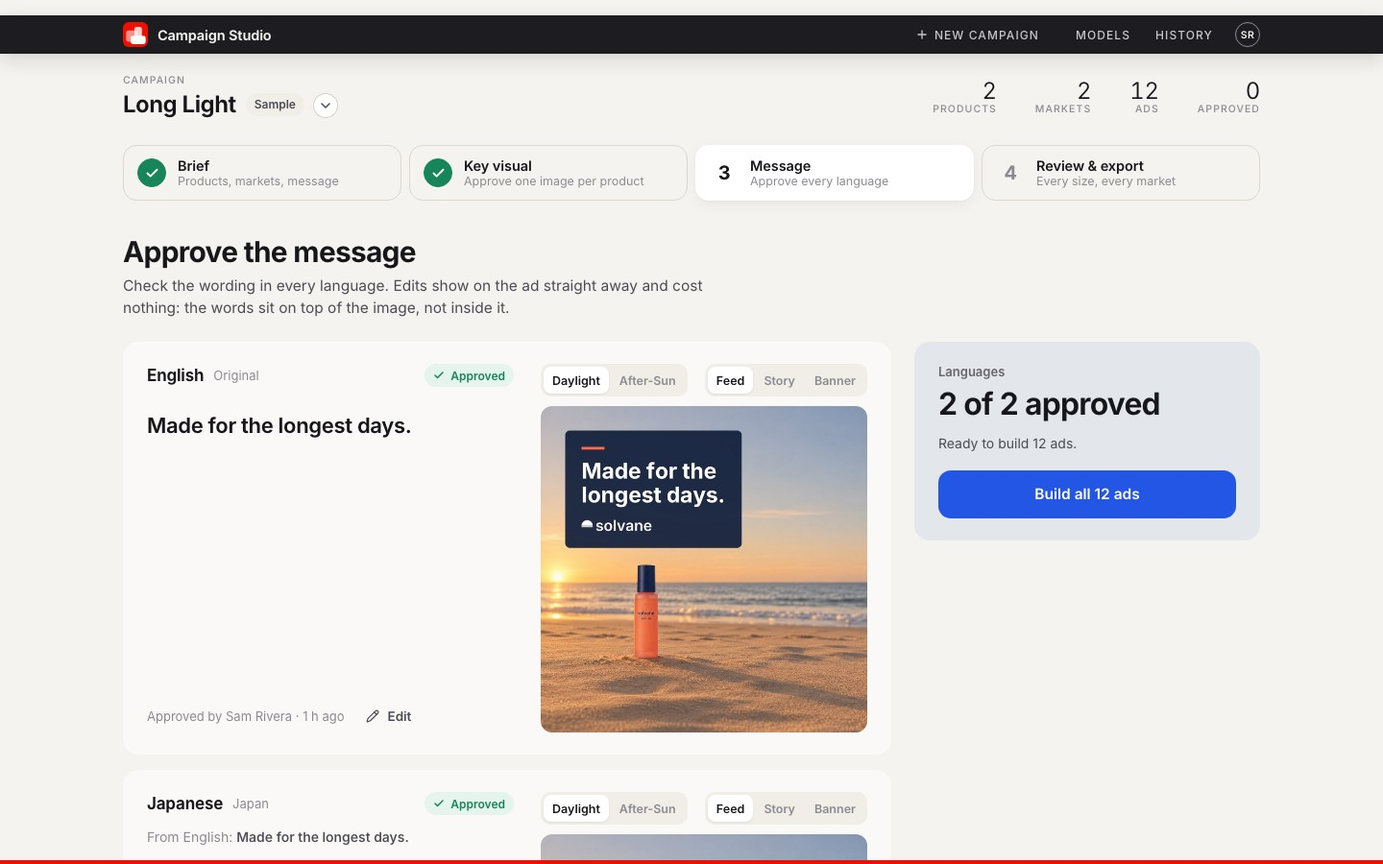
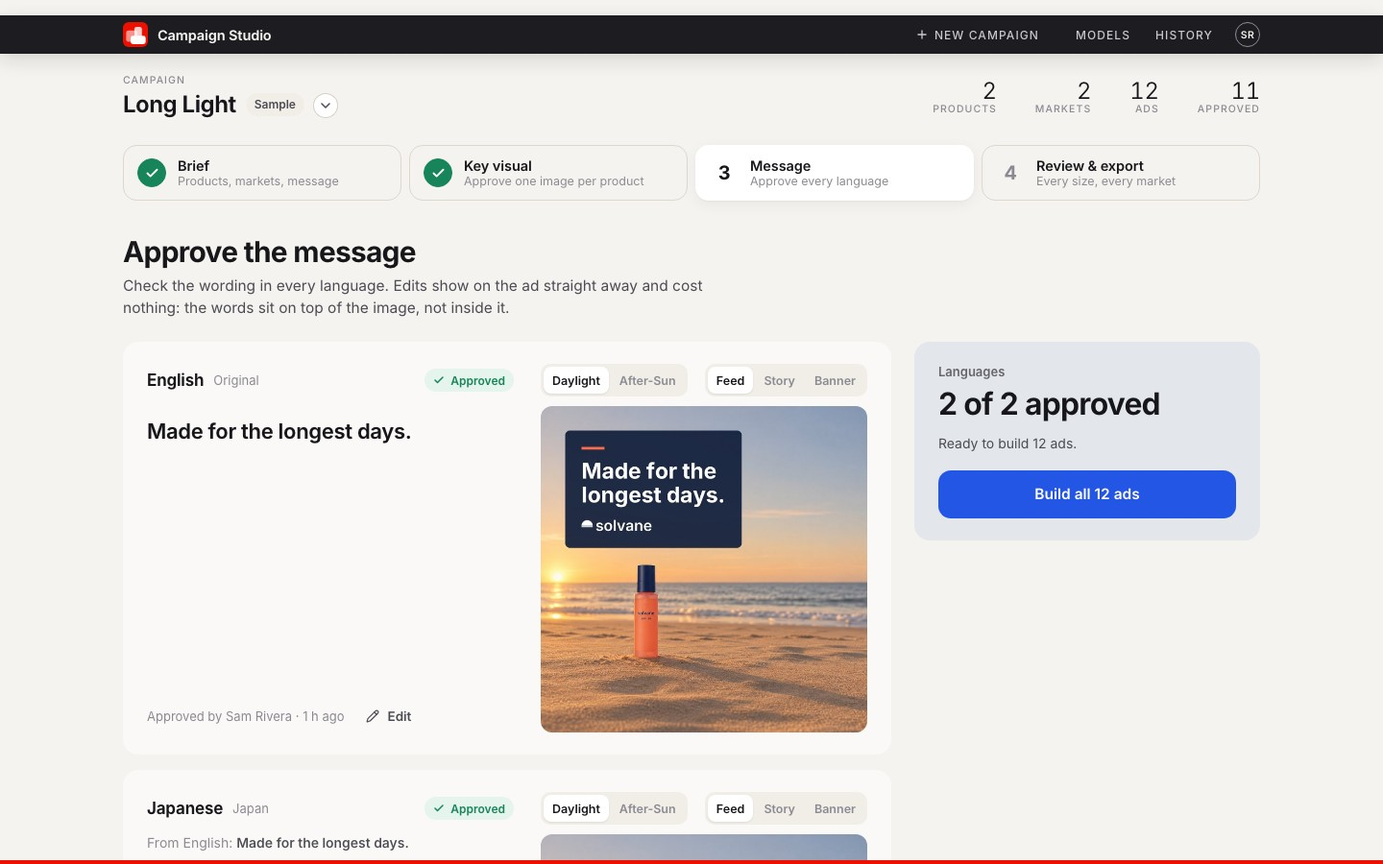
Line up the language card header with its preview toggles
The language name and Approved badge now share a centre line with the
Daylight/After-Sun and Feed/Story/Banner toggles, and the text below
starts level with the preview image. The README screenshot is retaken.

diff --git a/web/dist/assets/index-Dwjas2Ix.css b/web/dist/assets/index-Dwjas2Ix.css
@@ -1,0 +1,1 @@
+@font-face{font-family:Inter Variable;font-style:normal;font-display:swap;font-weight:100 900;src:url(/assets/inter-cyrillic-ext-wght-normal-B2xhLi22.woff2) format("woff2-variations");unicode-range:U+0460-052F,U+1C80-1C88,U+20B4,U+2DE0-2DFF,U+A640-A69F,U+FE2E-FE2F}@font-face{font-family:Inter Variable;font-style:normal;font-display:swap;font-weight:100 900;src:url(/assets/inter-cyrillic-wght-normal-CMZtQduZ.woff2) format("woff2-variations");unicode-range:U+0301,U+0400-045F,U+0490-0491,U+04B0-04B1,U+2116}@font-face{font-family:Inter Variable;font-style:normal;font-display:swap;font-weight:100 900;src:url(/assets/inter-greek-ext-wght-normal-CGAr0uHJ.woff2) format("woff2-variations");unicode-range:U+1F00-1FFF}@font-face{font-family:Inter Variable;font-style:normal;font-display:swap;font-weight:100 900;src:url(/assets/inter-greek-wght-normal-CaVNZxsx.woff2) format("woff2-variations");unicode-range:U+0370-0377,U+037A-037F,U+0384-038A,U+038C,U+038E-03A1,U+03A3-03FF}@font-face{font-family:Inter Variable;font-style:normal;font-display:swap;font-weight:100 900;src:url(/assets/inter-vietnamese-wght-normal-CBcvBZtf.woff2) format("woff2-variations");unicode-range:U+0102-0103,U+0110-0111,U+0128-0129,U+0168-0169,U+01A0-01A1,U+01AF-01B0,U+0300-0301,U+0303-0304,U+0308-0309,U+0323,U+0329,U+1EA0-1EF9,U+20AB}@font-face{font-family:Inter Variable;font-style:normal;font-display:swap;font-weight:100 900;src:url(/assets/inter-latin-ext-wght-normal-CFHvXkgd.woff2) format("woff2-variations");unicode-range:U+0100-02AF,U+0304,U+0308,U+0329,U+1E00-1E9F,U+1EF2-1EFF,U+2020,U+20A0-20AB,U+20AD-20C0,U+2113,U+2C60-2C7F,U+A720-A7FF}@font-face{font-family:Inter Variable;font-style:normal;font-display:swap;font-weight:100 900;src:url(/assets/inter-latin-wght-normal-C2S99t-D.woff2) format("woff2-variations");unicode-range:U+0000-00FF,U+0131,U+0152-0153,U+02BB-02BC,U+02C6,U+02DA,U+02DC,U+0304,U+0308,U+0329,U+2000-206F,U+2074,U+20AC,U+2122,U+2191,U+2193,U+2212,U+2215,U+FEFF,U+FFFD}:root{--bg: #f5f3ef;--surface: #ffffff;--surface-2: #faf9f6;--ink: #17171b;--ink-2: #4b4b53;--ink-3: #8b8a92;--line: #e8e4dd;--line-strong: #d7d1c7;--hover: #f1eee8;--tile: #ebe7e0;--step-line: #ddd7cd;--focus: #2f6bff;--action: #2456e6;--action-hover: #1c46c4;--action-ring: rgba(36, 86, 230, .16);--adobe: #eb1000;--adobe-bg: #fdecea;--ok: #17845a;--ok-bg: #e5f4ec;--warn: #a8610a;--warn-bg: #fff2db;--fail: #c4311c;--fail-bg: #fde8e3;--radius: 16px;--radius-sm: 10px;--shadow: 0 1px 2px rgba(23, 23, 27, .04), 0 4px 16px rgba(23, 23, 27, .05);--shadow-lg: 0 2px 6px rgba(23, 23, 27, .06), 0 24px 60px rgba(23, 23, 27, .16);font-family:Inter Variable,system-ui,-apple-system,Segoe UI,sans-serif;font-feature-settings:"cv11","ss01";color:var(--ink);background:var(--bg);-webkit-font-smoothing:antialiased}*{box-sizing:border-box}html,body,#root{margin:0;min-height:100%}body{background:var(--bg)}button,input,textarea,select{font:inherit;color:inherit}img{display:block;max-width:100%}:focus-visible{outline:2px solid var(--focus);outline-offset:2px;border-radius:6px}:root{--bar-gap: 16px;--bar-h: 40px;--bar-bg: #1d1d21;--bar-ink: #f4f3f0;--bar-ink-2: #c9c8ce;--bar-ink-3: #8f8e96;--bar-hover: rgba(255, 255, 255, .08)}.topbar{position:sticky;top:var(--bar-gap);z-index:30;margin-top:var(--bar-gap);display:flex;align-items:center;gap:16px;height:var(--bar-h);padding:0 max(16px,calc((100% - 1184px)/2));background:var(--bar-bg);color:var(--bar-ink);box-shadow:0 6px 20px #17171b24}.topbar-left{display:flex;align-items:center;gap:10px;min-width:0}.wordmark{font-size:14.5px;font-weight:650;letter-spacing:-.01em;white-space:nowrap}.wordmark-mark{width:26px;height:26px;border-radius:6px;background:var(--adobe);color:#fff;display:grid;place-items:center;flex:none}.topbar .spacer{flex:1}.topbar .menu{color:var(--ink)}.topbar-right{display:flex;align-items:center;gap:4px}.bar-link{display:inline-flex;align-items:center;gap:6px;height:28px;padding:0 11px;border:0;border-radius:7px;background:transparent;cursor:pointer;font-size:12px;font-weight:500;letter-spacing:.09em;text-transform:uppercase;color:var(--bar-ink-2)}.bar-link:hover,.bar-link[aria-expanded=true]{color:var(--bar-ink);background:var(--bar-hover)}.new-campaign-slot{margin-right:12px}.menu.new-campaign-form{min-width:340px;padding:10px}.avatar{width:26px;height:26px;border-radius:50%;cursor:pointer;margin-left:8px;padding:0;display:grid;place-items:center;font-size:10.5px;font-weight:600;letter-spacing:.03em;background:transparent;color:var(--bar-ink);border:1.5px solid var(--bar-ink-3);transition:border-color .15s}.avatar:hover,.avatar[aria-expanded=true]{border-color:var(--bar-ink)}.camphead-inner{max-width:1240px;margin:0 auto;padding:22px 28px 4px}.camphead-row{display:flex;align-items:center;justify-content:space-between;gap:32px}.camphead-title{flex:1;min-width:0}.campaign-slot{position:relative}.camphead-title .campaign-slot{display:flex;align-items:center}.campaign-switch{display:inline-flex;align-items:center;gap:10px;max-width:100%;padding:0;border:0;background:transparent;cursor:pointer;color:inherit;text-align:left}.campaign-name{font-size:24px;line-height:1.2;font-weight:650;letter-spacing:-.02em;white-space:nowrap;overflow:hidden;text-overflow:ellipsis}.campaign-switch .badge{flex:none}.campaign-chevron{flex:none;width:24px;height:24px;border-radius:50%;display:grid;place-items:center;margin-top:2px;background:var(--surface);color:var(--ink-2);box-shadow:0 0 0 1px var(--line-strong);transition:box-shadow .15s,color .15s}.campaign-switch:hover .campaign-chevron,.campaign-switch[aria-expanded=true] .campaign-chevron{box-shadow:0 0 0 1px var(--ink-3),var(--shadow);color:var(--ink)}.camp-stats{display:flex;gap:40px;margin:0}.camp-stat{display:flex;flex-direction:column;align-items:flex-end;text-align:right}.camp-stat dd{margin:0;font-size:24px;line-height:1.15;font-weight:350;letter-spacing:-.01em;font-variant-numeric:tabular-nums}.camp-label{font-size:10.5px;line-height:1.2;font-weight:500;letter-spacing:.1em;text-transform:uppercase;color:var(--ink-3);margin-bottom:4px}.camp-stat dt{font-size:10.5px;line-height:1.2;font-weight:500;letter-spacing:.1em;text-transform:uppercase;color:var(--ink-3)}.stepper{display:grid;grid-template-columns:repeat(4,1fr);gap:8px;max-width:1240px;margin:24px auto 0;padding:0 28px}.step{position:relative;display:flex;align-items:center;gap:12px;padding:12px 14px;border-radius:14px;border:1px solid transparent;background:transparent;cursor:pointer;text-align:left}.step{transition:background .15s,box-shadow .15s}.step{border-color:var(--step-line)}.step:not(:disabled):hover{background:var(--tile)}.step:disabled{cursor:default;opacity:.45}.step.current,.step.current:hover{background:var(--surface);border-color:transparent;box-shadow:var(--shadow)}.step-num{width:30px;height:30px;flex:none;border-radius:50%;display:grid;place-items:center;font-size:20px;font-weight:700;letter-spacing:-.02em;border:1.5px solid transparent;color:var(--ink-3);background:transparent;font-variant-numeric:tabular-nums}.step.current .step-num{color:var(--ink)}.step.done .step-num{background:var(--ok);border-color:var(--ok);color:#fff}.step-text{display:flex;flex-direction:column;min-width:0}.step-title{font-weight:600;font-size:14.5px;letter-spacing:-.005em}.step-sub{font-size:12.5px;color:var(--ink-3);white-space:nowrap;overflow:hidden;text-overflow:ellipsis}.page{max-width:1240px;margin:0 auto;padding:28px 28px 72px}.page-head{display:flex;align-items:flex-end;justify-content:space-between;gap:24px;margin:8px 0 24px}.page-head h1{font-size:30px;line-height:1.15;letter-spacing:-.025em;font-weight:680;margin:0 0 6px}.page-head p{margin:0;color:var(--ink-2);font-size:15.5px;max-width:640px;line-height:1.5}.grid-2{display:grid;grid-template-columns:minmax(0,1fr) 360px;gap:24px;align-items:start}.grid-2>aside.stack{gap:16px}@media (max-width: 1000px){.grid-2{grid-template-columns:1fr}.grid-2 .sticky{position:static}}.card{--card-rest: rgba(255, 255, 255, .5);--card-lift: 0 2px 6px rgba(23, 23, 27, .06), 0 14px 36px rgba(23, 23, 27, .12);background:var(--card-rest);border:1px solid transparent;border-radius:var(--radius);transition:background .2s,box-shadow .2s}.card:hover,.card:focus-within{background:var(--surface);box-shadow:var(--card-lift)}.card-pad{padding:22px 24px}.summary-panel{--summary-bg: #e3e6ea;--ink-3: #65646c;padding:22px 24px;border:1px solid transparent;border-radius:var(--radius);background:var(--summary-bg)}.card+.card{margin-top:16px}.card-title{display:flex;align-items:center;justify-content:space-between;gap:12px;margin:0 0 4px;font-size:16px;font-weight:640;letter-spacing:-.01em}.card-hint{margin:0 0 18px;color:var(--ink-3);font-size:13.5px;line-height:1.45}.sticky{position:sticky;top:calc(var(--bar-gap) + var(--bar-h) + 20px)}.muted{color:var(--ink-3)}.small{font-size:13px}.row{display:flex;align-items:center;gap:10px}.row-wrap{display:flex;flex-wrap:wrap;gap:8px}.stack{display:flex;flex-direction:column;gap:14px}.space{flex:1}.field{display:flex;flex-direction:column;gap:7px}.field+.field{margin-top:16px}.label{font-size:13px;font-weight:600;color:var(--ink-2);display:flex;justify-content:space-between}.label .muted{font-weight:450}.input,.textarea{width:100%;border:1px solid var(--line-strong);border-radius:var(--radius-sm);background:var(--surface);padding:11px 13px;font-size:15px;line-height:1.45;transition:border-color .15s,box-shadow .15s}.textarea{resize:vertical;min-height:80px}.input:hover,.textarea:hover{border-color:var(--ink-3)}.input:focus,.textarea:focus{outline:none;border-color:var(--action);box-shadow:0 0 0 3px var(--action-ring)}.input.big{font-size:22px;font-weight:620;letter-spacing:-.015em;padding:12px 14px}.input.invalid,.textarea.invalid{border-color:var(--fail)}.field-note{font-size:12.5px;color:var(--ink-3)}.field-note.fail{color:var(--fail)}a.btn{text-decoration:none}.btn{display:inline-flex;align-items:center;justify-content:center;gap:8px;height:42px;padding:0 18px;border-radius:11px;border:1px solid transparent;font-size:14.5px;font-weight:600;cursor:pointer;white-space:nowrap;transition:background .15s,border-color .15s,transform .05s,opacity .15s}.btn:active:not(:disabled){transform:translateY(1px)}.btn:disabled{opacity:.45;cursor:not-allowed}.btn-primary{background:var(--action);color:#fff}.btn-primary:hover:not(:disabled){background:var(--action-hover)}.btn-approve{background:var(--ok);color:#fff}.btn-approve:hover:not(:disabled){background:#106e4a}.btn-secondary{background:var(--surface);border-color:var(--line-strong);color:var(--ink)}.btn-secondary:hover:not(:disabled){border-color:var(--ink-3);background:var(--surface-2)}.btn-ghost{background:transparent;color:var(--ink-2)}.btn-ghost:hover:not(:disabled){background:var(--hover);color:var(--ink)}.btn-danger{background:var(--surface);border-color:var(--line-strong);color:var(--fail)}.btn-danger:hover:not(:disabled){border-color:var(--fail);background:var(--fail-bg)}.btn-lg{height:50px;padding:0 24px;font-size:15.5px;border-radius:13px}.btn-sm{height:34px;padding:0 12px;font-size:13.5px;border-radius:9px}.btn-block{width:100%}.icon-btn{width:34px;height:34px;padding:0;border-radius:9px}.badge{display:inline-flex;align-items:center;gap:6px;height:24px;padding:0 9px;border-radius:999px;font-size:12px;font-weight:600;white-space:nowrap;background:var(--hover);color:var(--ink-2)}.badge.ok{background:var(--ok-bg);color:var(--ok)}.badge.warn{background:var(--warn-bg);color:var(--warn)}.badge.fail{background:var(--fail-bg);color:var(--fail)}.market-chip{display:inline-flex;align-items:center;gap:8px;height:38px;padding:0 8px 0 12px;border-radius:999px;border:1px solid var(--line-strong);background:var(--surface);font-size:14px;font-weight:550}.market-chip .flag{font-size:12px;font-weight:700;color:var(--ink-3);letter-spacing:.04em}.market-chip button{border:0;background:transparent;width:24px;height:24px;border-radius:50%;display:grid;place-items:center;cursor:pointer;color:var(--ink-3)}.market-chip button:hover{background:var(--hover);color:var(--ink)}.add-market{position:relative}.menu{position:absolute;z-index:40;top:calc(100% + 6px);left:0;min-width:240px;background:var(--surface);border:1px solid var(--line);border-radius:12px;box-shadow:var(--shadow-lg);padding:6px;max-height:320px;overflow:auto}.menu-item{display:flex;width:100%;align-items:center;justify-content:space-between;gap:10px;padding:9px 10px;border:0;background:transparent;border-radius:8px;cursor:pointer;text-align:left;font-size:14px}.menu-item:hover{background:var(--hover)}.menu-row{display:flex;align-items:center;gap:2px}.menu-row .menu-item{flex:1;min-width:0}.menu-row-delete{flex:none;width:32px;height:32px;border:0;border-radius:8px;background:transparent;color:var(--ink-3);cursor:pointer;display:grid;place-items:center;opacity:0}.menu-row:hover .menu-row-delete,.menu-row-delete:focus-visible{opacity:1}.menu-row-delete:hover{background:var(--fail-bg);color:var(--fail)}@media (hover: none){.menu-row-delete{opacity:1}}.menu-confirm{display:flex;flex-direction:column;gap:8px;padding:10px;margin:2px 0;border-radius:8px;background:var(--fail-bg);font-size:13.5px;line-height:1.4}.menu-confirm .row{justify-content:flex-end}.menu-item .muted{font-size:12.5px}.product-card-head{grid-column:1 / -1;display:flex;align-items:center;justify-content:space-between;margin-bottom:-10px}.product-card{display:grid;grid-template-columns:148px minmax(0,1fr);gap:20px;padding:18px;border:1px solid var(--line);border-radius:14px;background:var(--surface-2)}.product-card+.product-card{margin-top:12px}.dropzone{position:relative;width:148px;height:148px;border-radius:12px;overflow:hidden;border:1.5px dashed var(--line-strong);background:var(--surface);display:flex;flex-direction:column;align-items:center;justify-content:center;gap:6px;text-align:center;padding:10px;cursor:pointer;color:var(--ink-3);font-size:12.5px;line-height:1.35;transition:border-color .15s,background .15s}.dropzone:hover,.dropzone.over{border-color:var(--action);color:var(--ink-2);background:var(--hover)}.dropzone img{position:absolute;top:0;right:0;bottom:0;left:0;width:100%;height:100%;object-fit:cover}.dropzone .remove{position:absolute;top:6px;right:6px;z-index:2;width:26px;height:26px;border-radius:50%;border:0;background:#0009;color:#fff;display:grid;place-items:center;cursor:pointer}.dropzone .tag{position:absolute;left:6px;bottom:6px;z-index:2;padding:3px 7px;border-radius:6px;background:#0000009e;color:#fff;font-size:11px;font-weight:600}.swatch{width:34px;height:34px;border-radius:9px;border:1px solid rgba(0,0,0,.08)}.logo-box{height:56px;padding:12px 16px;border-radius:10px;background:var(--surface-2);border:1px solid var(--line);display:inline-flex;align-items:center}.logo-box img{max-height:100%;width:auto}.summary-label{font-size:13px;font-weight:600;color:var(--ink-3);margin-bottom:8px}.summary-figure{font-size:32px;font-weight:650;letter-spacing:-.025em;line-height:1.1}.summary-detail{font-size:14px;color:var(--ink-2);line-height:1.5;margin:12px 0 18px}.equation{display:flex;align-items:center;gap:8px;flex-wrap:wrap;color:var(--ink-2);font-size:14px;margin:12px 0 18px}.equation b{color:var(--ink);font-weight:650}.format-icons{display:grid;grid-template-columns:repeat(3,1fr);align-items:end;gap:10px;margin:6px 0 20px}.format-icon{display:flex;flex-direction:column;align-items:center;gap:6px;font-size:11.5px;color:var(--ink-3)}.format-icon span:first-child{background:var(--ink-2);border-radius:5px;display:block}.format-icon:nth-child(1) span:first-child{opacity:.55}.format-icon:nth-child(2) span:first-child{opacity:.8}.problems{margin:0 0 16px;padding:12px 14px;border-radius:12px;background:var(--warn-bg);color:var(--warn);font-size:13.5px;line-height:1.5}.problems ul{margin:4px 0 0;padding-left:18px}.product-tabs{display:flex;gap:8px;margin-bottom:16px;flex-wrap:wrap}.product-tab{display:flex;align-items:center;gap:10px;padding:8px 14px 8px 8px;border-radius:12px;border:1px solid var(--line);background:var(--surface);cursor:pointer;font-weight:580;font-size:14px}.product-tab img,.product-tab .thumb{width:36px;height:36px;border-radius:8px;object-fit:cover;background:var(--hover)}.product-tab.active{border-color:var(--action);box-shadow:0 0 0 1px var(--action)}.stage{position:relative;border-radius:var(--radius);overflow:hidden;background:#e9e5de;aspect-ratio:1 / 1;-webkit-user-select:none;user-select:none;touch-action:none;width:min(100%,calc(100vh - 400px));min-width:320px}.stage img.loading{opacity:0}.stage img{transition:opacity .2s}.stage-loading{position:absolute;top:0;right:0;bottom:0;left:0;display:grid;place-items:center;color:var(--ink-3);background:linear-gradient(100deg,#e9e5de 30%,#f1ede7,#e9e5de 70%) 0 0 / 300% 100%;animation:shimmer 1.4s linear infinite}@keyframes shimmer{to{background-position:-150% 0}}.stage img{width:100%;height:100%;object-fit:cover;pointer-events:none}.stage.can-drag{cursor:crosshair}.crop-guide{position:absolute;border:1.5px solid rgba(255,255,255,.85);border-radius:4px;pointer-events:none;box-shadow:0 0 0 1px #0000002e;transition:all .2s ease}.crop-guide span{position:absolute;top:6px;left:6px;padding:2px 7px;border-radius:5px;background:#0000008c;color:#fff;font-size:11px;font-weight:600;white-space:nowrap}.crop-guide.dim{border-style:dashed;opacity:.7}.focal{position:absolute;width:46px;height:46px;margin:-23px 0 0 -23px;border-radius:50%;border:2.5px solid #fff;box-shadow:0 0 0 1px #00000040,0 6px 18px #0000004d,inset 0 0 0 1px #00000026;cursor:grab;display:grid;place-items:center;background:#ffffff26;transition:transform .15s}.focal:after{content:"";width:8px;height:8px;border-radius:50%;background:#fff;box-shadow:0 0 0 1px #0000004d}.focal.dragging{cursor:grabbing;transform:scale(1.12)}.product-box{position:absolute;border:2px solid #fff;border-radius:8px;cursor:move;box-shadow:0 0 0 1px #00000040,0 0 0 9999px #0000001f;transition:box-shadow .15s}.product-box.active{box-shadow:0 0 0 1px #00000040,0 0 0 9999px #00000047}.product-box.locked{cursor:default;box-shadow:0 0 0 1px #00000040}.product-box-label{position:absolute;top:-26px;left:-2px;padding:3px 8px;border-radius:6px;background:#fff;color:var(--ink);font-size:11.5px;font-weight:650;white-space:nowrap;pointer-events:none}.product-box-handle{position:absolute;right:-8px;bottom:-8px;width:16px;height:16px;border-radius:5px;background:#fff;box-shadow:0 1px 4px #00000059;cursor:nwse-resize}.focal-label{position:absolute;transform:translate(-50%,14px);padding:4px 9px;border-radius:7px;background:#000000ad;color:#fff;font-size:12px;font-weight:600;white-space:nowrap;pointer-events:none}.stage-toolbar{position:absolute;left:14px;bottom:14px;display:flex;gap:6px}.stage-toolbar button{height:32px;padding:0 11px;border-radius:9px;border:0;cursor:pointer;font-size:12.5px;font-weight:600;background:#0000008c;color:#fff;-webkit-backdrop-filter:blur(6px);backdrop-filter:blur(6px)}.stage-toolbar button.on{background:#fff;color:var(--ink)}.generating{position:absolute;top:0;right:0;bottom:0;left:0;display:flex;flex-direction:column;align-items:center;justify-content:center;gap:14px;background:linear-gradient(110deg,#ece8e1 8%,#f7f5f1 18%,#ece8e1 33%);background-size:200% 100%;animation:shimmer 1.4s linear infinite;color:var(--ink-2);text-align:center;padding:24px}.generating strong{font-size:17px;color:var(--ink);letter-spacing:-.01em}@keyframes shimmer{to{background-position-x:-200%}}.mini-previews{display:grid;grid-template-columns:1fr .5625fr;gap:12px;align-items:end}.mini-previews .mini:nth-child(3){grid-column:1 / -1}.mini{display:flex;flex-direction:column;gap:6px}.mini-img{border-radius:8px;overflow:hidden;background:var(--hover);position:relative}.mini-img img{width:100%;height:100%;object-fit:cover}.mini-label{font-size:11.5px;color:var(--ink-3);display:flex;justify-content:space-between;gap:4px}.details{border-top:1px solid var(--line);margin-top:16px;padding-top:12px}.details summary{cursor:pointer;font-size:13px;font-weight:600;color:var(--ink-2);list-style:none;display:flex;align-items:center;gap:6px}.details summary::-webkit-details-marker{display:none}.details p{font-size:13px;color:var(--ink-2);line-height:1.55;margin:10px 0 0}.approved-stamp{display:flex;align-items:center;gap:10px;padding:12px 14px;border-radius:12px;background:var(--ok-bg);color:var(--ok);font-size:14px;font-weight:600}.approved-stamp .muted{color:var(--ok);opacity:.8;font-weight:500}.lang-card{display:grid;grid-template-columns:minmax(0,1fr) 340px;gap:28px}@media (max-width: 1000px){.lang-card{grid-template-columns:1fr}}.lang-head{display:flex;align-items:center;gap:10px;min-height:34px;margin-bottom:10px}.lang-head h3{margin:0;font-size:17px;font-weight:650;letter-spacing:-.01em}.source-line{font-size:14px;color:var(--ink-3);margin-bottom:10px}.source-line b{color:var(--ink-2);font-weight:550}.copy-input{font-size:22px;font-weight:620;letter-spacing:-.015em;line-height:1.35;min-height:0}.meaning{margin-top:10px;font-size:14px;color:var(--ink-2);line-height:1.5}.meaning b{font-weight:600}.note{margin-top:8px;font-size:13px;color:var(--ink-3);line-height:1.5}.lang-main{display:flex;flex-direction:column;min-width:0}.lang-actions{margin-top:auto;padding-top:18px}.copy-locked{padding:12px 0 4px;color:var(--ink)}.preview-wrap{border-radius:12px;overflow:hidden;background:var(--hover);position:relative}.preview-wrap img{width:100%}.preview-wrap.loading img{opacity:.6;transition:opacity .2s}.seg{display:inline-flex;padding:3px;border-radius:10px;background:var(--hover);gap:2px}.seg button{white-space:nowrap;height:28px;padding:0 9px;border:0;border-radius:8px;background:transparent;cursor:pointer;font-size:12.5px;font-weight:600;color:var(--ink-3)}.seg button.on{background:var(--surface);color:var(--ink);box-shadow:0 1px 2px #00000014}.review-bar{display:flex;align-items:center;gap:12px;flex-wrap:wrap;margin-bottom:20px}.stat{display:flex;flex-direction:column;align-items:flex-start;padding:14px 18px;border-radius:14px;background:var(--surface);border:1px solid var(--line);min-width:120px;cursor:pointer;text-align:left;transition:border-color .15s,box-shadow .15s,transform .05s}.stat:hover{border-color:var(--ink-3)}.stat:active{transform:translateY(1px)}.stat.on{border-color:var(--action);box-shadow:0 0 0 1px var(--action),var(--shadow)}.stat b{font-size:26px;font-weight:700;letter-spacing:-.03em;line-height:1.1}.stat span{font-size:12.5px;color:var(--ink-3);font-weight:550}.product-section+.product-section{margin-top:36px}.product-section h2{font-size:19px;font-weight:650;letter-spacing:-.015em;margin:0 0 14px;display:flex;align-items:center;gap:10px}.sheet-row{display:grid;grid-template-columns:140px minmax(0,1fr);gap:20px;align-items:start;padding:16px 0;border-top:1px solid var(--line)}.sheet-row-label{display:flex;flex-direction:column;gap:2px;font-size:14px;padding-top:4px}.sheet-row-label .muted{font-size:12.5px}.sheet{display:flex;flex-wrap:wrap;gap:20px 18px;align-items:flex-start}.tile{display:flex;flex-direction:column;gap:8px;border:0;padding:0;background:transparent;cursor:pointer;text-align:left}.tile-img{position:relative;border-radius:10px;overflow:hidden;background:var(--hover);box-shadow:0 0 0 1px var(--line);transition:box-shadow .15s,transform .15s}.tile:hover .tile-img{box-shadow:0 0 0 2px var(--action);transform:translateY(-2px)}.tile-img img{width:100%;height:100%;object-fit:cover}.tile-img.decided-approved{box-shadow:0 0 0 2.5px var(--ok)}.tile-img.decided-rejected{box-shadow:0 0 0 2.5px var(--fail)}.tile-img.decided-rejected img{opacity:.45;filter:grayscale(.6)}.tile-meta{display:flex;flex-direction:column;gap:1px;font-size:12.5px;color:var(--ink-2);font-weight:580;line-height:1.35}.tile-meta .muted{font-weight:500}.tile-status{position:absolute;top:8px;right:8px}.marker{position:absolute;border:2px solid;border-radius:6px;pointer-events:none}.marker.warn{border-color:#ffb547;background:#ffb54724}.marker.fail{border-color:#ff5a3c;background:#ff5a3c29}.marker-pin{position:absolute;top:-11px;left:-11px;width:22px;height:22px;border-radius:50%;display:grid;place-items:center;font-size:11.5px;font-weight:700;color:#fff}.marker.warn .marker-pin{background:#e8930c}.marker.fail .marker-pin{background:#e03a1f}.lightbox{position:fixed;top:0;right:0;bottom:0;left:0;z-index:50;background:#121214b8;-webkit-backdrop-filter:blur(4px);backdrop-filter:blur(4px);display:flex;align-items:center;justify-content:center;padding:32px}.lightbox-panel{display:grid;grid-template-columns:minmax(0,1fr) 380px;width:min(1280px,100%);max-height:calc(100vh - 64px);background:var(--surface);border-radius:20px;overflow:hidden;box-shadow:var(--shadow-lg)}.lightbox-stage{background:#1d1d21;display:flex;align-items:center;justify-content:center;padding:28px;min-height:0}.lightbox-stage .frame{position:relative;max-height:calc(100vh - 120px)}.lightbox-stage .frame img{max-height:calc(100vh - 120px);width:auto;border-radius:6px}.lightbox-side{padding:24px;display:flex;flex-direction:column;gap:16px;overflow:auto}.check-list{display:flex;flex-direction:column;gap:2px;margin:0;padding:0;list-style:none}.check-item{display:grid;grid-template-columns:22px minmax(0,1fr);gap:10px;padding:9px 4px;border-bottom:1px solid var(--line);font-size:13.5px}.check-item:last-child{border-bottom:0}.check-item .ci-label{font-weight:600}.check-item .ci-msg{color:var(--ink-3);font-size:12.5px;margin-top:2px;line-height:1.45}.check-icon{width:20px;height:20px;border-radius:50%;display:grid;place-items:center;color:#fff;font-size:11px;font-weight:700;margin-top:1px}.check-icon.pass{background:var(--ok)}.check-icon.warn{background:#e8930c}.check-icon.fail{background:#e03a1f}.close-x{position:absolute;top:18px;right:18px}.scrim{position:fixed;top:0;right:0;bottom:0;left:0;z-index:60;background:#1212145c}.drawer{position:fixed;z-index:61;top:0;right:0;bottom:0;width:min(440px,100vw);background:var(--surface);box-shadow:var(--shadow-lg);padding:28px;overflow:auto;animation:slideIn .22s ease}@keyframes slideIn{0%{transform:translate(24px);opacity:0}}.drawer h2,.modal h2{margin:0 0 6px;font-size:21px;letter-spacing:-.02em}.option{display:flex;gap:14px;align-items:flex-start;width:100%;padding:14px;margin-top:10px;border-radius:13px;border:1px solid var(--line-strong);background:var(--surface);cursor:pointer;text-align:left}.option.on{border-color:var(--action);box-shadow:0 0 0 1px var(--action)}.option:disabled{cursor:not-allowed;opacity:.6}.radio{width:18px;height:18px;border-radius:50%;border:1.5px solid var(--line-strong);flex:none;margin-top:2px;display:grid;place-items:center}.option.on .radio{border-color:var(--action)}.option.on .radio:after{content:"";width:9px;height:9px;border-radius:50%;background:var(--action)}.option-title{font-weight:620;font-size:14.5px;display:flex;gap:8px;align-items:center}.option-detail{font-size:13px;color:var(--ink-3);margin-top:3px;line-height:1.45}.modal{position:fixed;z-index:61;top:50%;left:50%;transform:translate(-50%,-50%);width:min(440px,calc(100vw - 32px));background:var(--surface);border-radius:18px;box-shadow:var(--shadow-lg);padding:26px}.toast{position:fixed;z-index:80;left:50%;bottom:28px;transform:translate(-50%);max-width:min(560px,calc(100vw - 32px));padding:13px 16px 13px 18px;border-radius:13px;background:var(--ink);color:#fff;font-size:14px;line-height:1.45;box-shadow:var(--shadow-lg);display:flex;gap:12px;align-items:flex-start;animation:toastIn .2s ease}.toast.error{background:#7c1d10}.toast button{border:0;background:transparent;color:#fff;opacity:.7;cursor:pointer;padding:0}@keyframes toastIn{0%{transform:translate(-50%,8px);opacity:0}}body:after{content:"";position:fixed;z-index:90;left:0;right:0;bottom:0;height:4px;background:var(--adobe);pointer-events:none}.spin{animation:spin .9s linear infinite}@keyframes spin{to{transform:rotate(360deg)}}.empty{padding:60px 20px;text-align:center;color:var(--ink-3)}.history-item{display:grid;grid-template-columns:74px minmax(0,1fr);gap:10px;padding:9px 0;border-bottom:1px solid var(--line);font-size:13px}.history-item .when{color:var(--ink-3);font-variant-numeric:tabular-nums}@media (max-width: 860px){.new-campaign-slot{margin-right:4px}.bar-action-label{display:none}.bar-action{padding:0 9px}.new-campaign-form{left:auto;right:0}.camphead-inner{padding:18px 16px 4px}.camp-stats{display:none}.campaign-name{font-size:20px}.stepper{grid-template-columns:repeat(4,auto);overflow-x:auto;padding:0 16px}.step-sub{display:none}.page{padding:20px 16px 56px}.lightbox-panel{grid-template-columns:1fr;overflow:auto}.product-card{grid-template-columns:1fr}}.badge.adobe{background:var(--adobe-bg);color:var(--adobe)}.menu-heading{padding:10px 10px 4px;font-size:11.5px;font-weight:650;letter-spacing:.02em;text-transform:uppercase;color:var(--ink-3)}.menu-heading .muted{text-transform:none;font-weight:500;letter-spacing:0}.modal:has(.setup-modal){width:min(520px,calc(100vw - 32px));max-height:calc(100vh - 48px);overflow:auto}.setup-list{margin:18px 0 12px;padding-left:20px;display:flex;flex-direction:column;gap:14px}.setup-list li::marker{font-weight:700;color:var(--ink-3)}.setup-title{font-weight:640;font-size:14.5px;display:flex;align-items:center;gap:8px;flex-wrap:wrap}.setup-body{font-size:13.5px;color:var(--ink-2);line-height:1.55;margin-top:3px}.involved{margin:10px 0 0;padding-left:18px;display:flex;flex-direction:column;gap:8px;font-size:13.5px;color:var(--ink-2);line-height:1.5}.involved b{color:var(--ink);font-weight:620}.error-note{display:grid;grid-template-columns:auto minmax(0,1fr);gap:4px 10px;align-items:start;padding:12px 14px;border-radius:12px;background:var(--fail-bg, #fdecea);color:var(--fail);font-size:13.5px;line-height:1.45;text-align:left}.error-note>svg{margin-top:2px}.error-note>span{color:var(--ink)}.error-note-actions{grid-column:2;display:flex;align-items:center;gap:6px;margin-top:6px}.error-note-close{margin-left:auto;border:0;background:transparent;color:var(--ink-3);cursor:pointer;padding:4px;border-radius:6px}.error-note-close:hover{background:var(--hover)}.stat-flag{font-style:normal;color:var(--warn);font-weight:600}.btn kbd{font:600 11px/1 var(--font, inherit);min-width:18px;height:18px;padding:0 5px;margin-left:4px;display:inline-grid;place-items:center;border-radius:5px;border:1px solid currentColor;opacity:.55}.signin{min-height:100vh;display:grid;place-items:center;padding:32px 16px}.signin-card{width:min(452px,100%);background:var(--surface);border:1px solid var(--line);border-radius:20px;padding:32px;box-shadow:var(--shadow-lg)}.signin-card h1{margin:0 0 4px;font-size:26px;letter-spacing:-.02em}.signin-card>p.muted{margin:0}.signin-card>p.signin-demo{margin:20px 0 0;line-height:1.55;padding:12px 14px;border-radius:12px;background:var(--surface-2);border:1px solid var(--line)}.signin-demo code{font-size:12.5px}.user-menu{right:0;left:auto;min-width:240px}.user-menu-head{padding:10px 10px 8px}.user-menu-head b{display:block}.signin-brand{display:flex;align-items:center;gap:10px;margin-bottom:28px}.tagline{font-size:12.5px;font-weight:500;color:var(--ink-3);padding-left:10px;margin-left:2px;border-left:1px solid var(--line-strong);white-space:nowrap}.option-group{margin-top:24px}.option-group h3{margin:0 0 2px;font-size:13px;font-weight:650;letter-spacing:.04em;text-transform:uppercase;color:var(--ink-3)}.option.connectable{display:block;padding:0;cursor:default}.option.connectable.open{border-color:var(--ink-3)}.option-head{display:flex;gap:14px;align-items:flex-start;width:100%;padding:14px;border:0;background:transparent;cursor:pointer;text-align:left;border-radius:13px}.option-head:hover .connect-link{text-decoration:underline}.option-head>span:nth-child(2){flex:1;min-width:0}.connect-link{flex:none;align-self:center;font-size:13.5px;font-weight:620;color:var(--ink)}.connect-form{padding:2px 14px 14px 46px;display:flex;flex-direction:column;gap:10px}.connect-form .label{margin-bottom:-4px}.connect-note{margin:0;font-size:12.5px;color:var(--ink-3);line-height:1.45}.connect-form details{font-size:12.5px;color:var(--ink-2);line-height:1.5}.connect-form summary{cursor:pointer;color:var(--ink-2);font-weight:600}.connect-form ol{margin:6px 0 0;padding-left:18px}@media (max-width: 560px){.wordmark{display:none}.topbar{gap:8px}.topbar-right{gap:0}.bar-link{padding:0 8px;letter-spacing:.06em}.new-campaign-slot{margin-right:0}.new-campaign-slot{position:static}.menu.new-campaign-form{left:12px;right:12px;min-width:0}.avatar{margin-left:4px}.stepper{scrollbar-width:none}.stepper::-webkit-scrollbar{display:none}.step-title{white-space:nowrap}.camphead-inner{padding-top:16px}.page-head{flex-direction:column;align-items:stretch;gap:14px}.page-head h1{font-size:26px}}

diff --git a/web/src/styles.css b/web/src/styles.css
@@ -403,7 +403,9 @@ a.btn { text-decoration: none; }
 /* ---------------------------------------------------------------- words */
 .lang-card { display: grid; grid-template-columns: minmax(0, 1fr) 340px; gap: 28px; }
 @media (max-width: 1000px) { .lang-card { grid-template-columns: 1fr; } }
-.lang-head { display: flex; align-items: center; gap: 10px; margin-bottom: 14px; }
+/* Same height and gap as the preview toggles beside it, so both rows share a centre line
+   and the text below starts level with the preview. */
+.lang-head { display: flex; align-items: center; gap: 10px; min-height: 34px; margin-bottom: 10px; }
 .lang-head h3 { margin: 0; font-size: 17px; font-weight: 650; letter-spacing: -0.01em; }
 .source-line { font-size: 14px; color: var(--ink-3); margin-bottom: 10px; }
 .source-line b { color: var(--ink-2); font-weight: 550; }

diff --git a/web/dist/index.html b/web/dist/index.html
@@ -8,8 +8,8 @@
     <link rel="manifest" href="/manifest.webmanifest" />
     <meta name="theme-color" content="#f5f3ef" />
     <title>Campaign Studio</title>
-    <script type="module" crossorigin src="/assets/index-BFj0VebR.js"></script>
-    <link rel="stylesheet" crossorigin href="/assets/index-BcPyHxCU.css">
+    <script type="module" crossorigin src="/assets/index-r_ezlVXj.js"></script>
+    <link rel="stylesheet" crossorigin href="/assets/index-Dwjas2Ix.css">
   </head>
   <body>
     <div id="root"></div>
